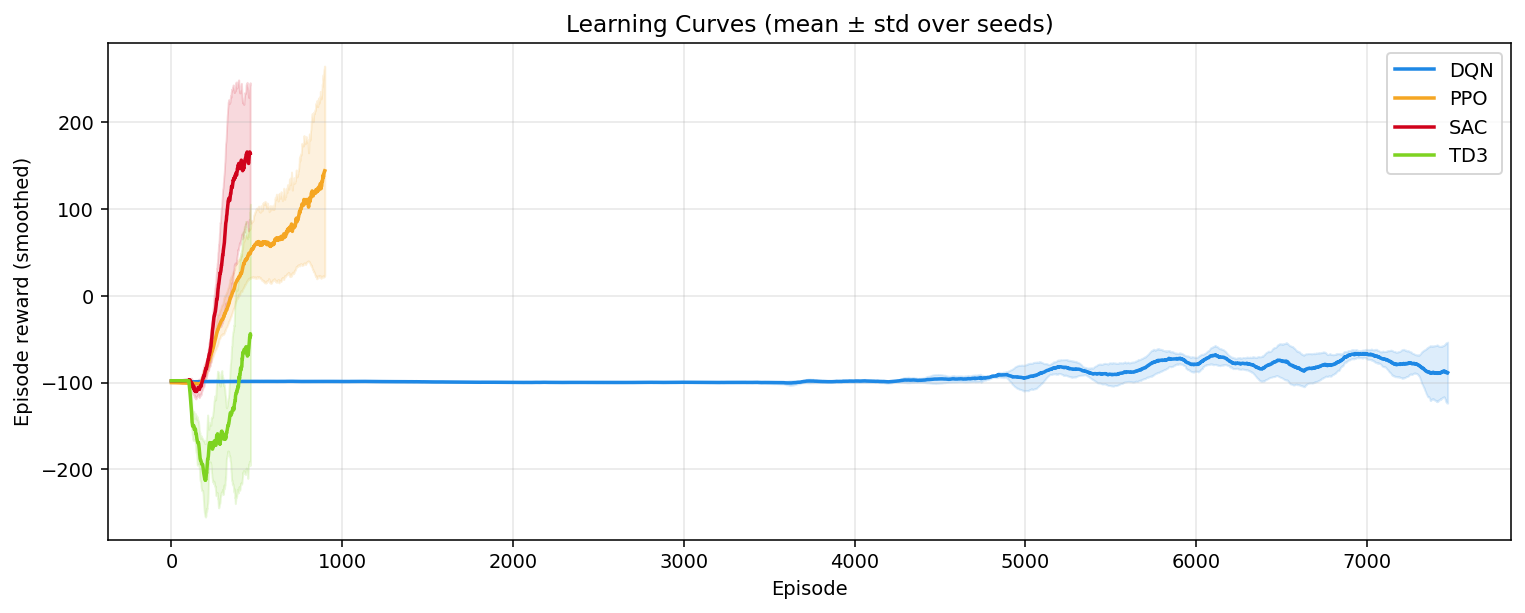
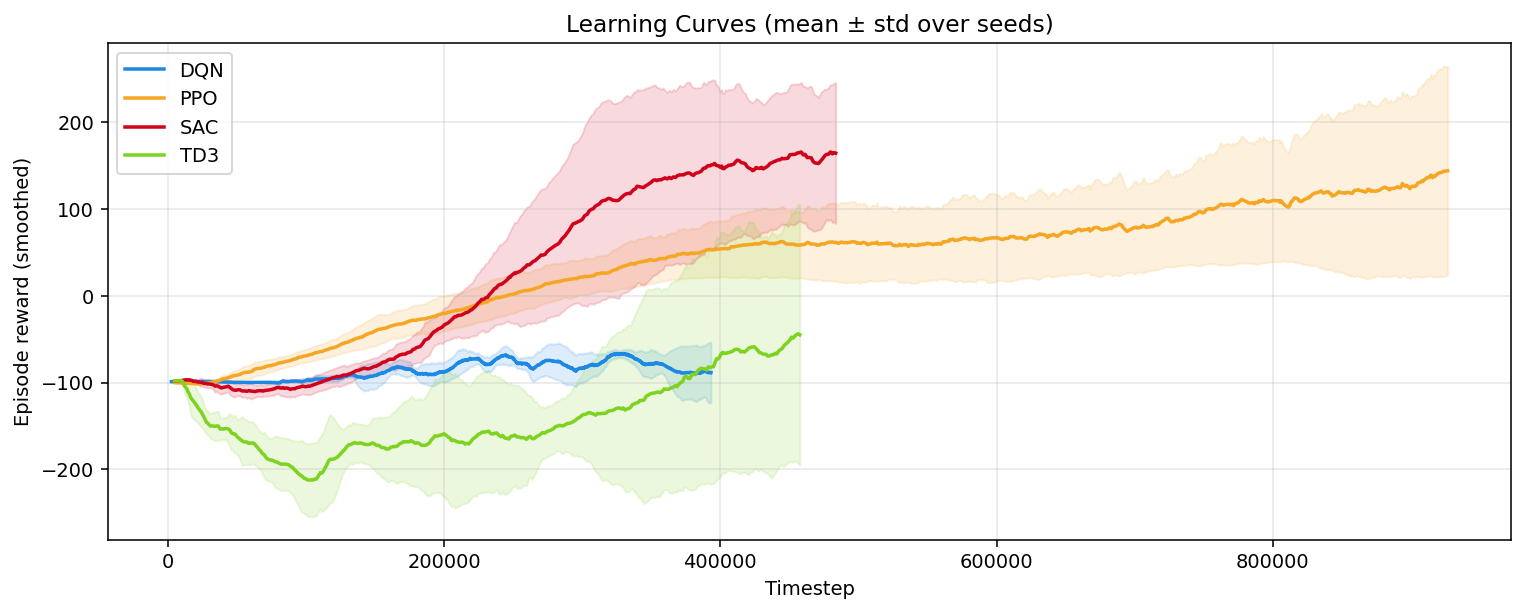
Phase-1 결과 정리 + Phase-2 타임어택 reward 설계
결과/figure:
- learning_curves x축을 episode 인덱스 → timestep으로 수정.
  DQN이 즉시 충돌해 짧은 에피소드를 수천 개 만들어 다른 알고리즘
  곡선이 왼쪽 끝에 뭉개지던 문제 해결(이제 4개 algo 공정 비교).
- README §9를 실제 본학습 결과로 채움(알고리즘 비교 표, 보상셰이핑/
  raycast ablation 해석, 요약).

Phase-2 (제한시간 내 최단 완주라는 진짜 목표 최적화):
- env: finish_time_bonus kwarg 추가(기본 0, 비파괴). 완주 시
  complete_bonus + finish_time_bonus*(1-steps/max_steps)로 빠른 완주
  보상. terminal 신호라 parking 정책엔 영향 없고 완주 정책만 가속.
- train: timeattack_dense/timeattack_finish/timeattack 프리셋 3종,
  --init-from/--learning-rate로 warm-start fine-tune(태그 _ft).
- run_phase2.sh: SAC 3프리셋×3시드 sweep + best racing 모델 fine-tune
  + viz.
- visualize: timeattack_ablation/finetune_compare figure.
- README §6-1(설계)·§9-7(결과 placeholder) 추가.

diff --git a/visualize.py b/visualize.py
@@ -172,14 +172,6 @@ def _seed_csvs(tag):
     paths = sorted(glob.glob(os.path.join(RESULTS, f"{tag}_seed*_metrics.csv")))
     return [np.genfromtxt(p, delimiter=",", names=True) for p in paths]
 
-def _agg_curve(arrays, key, w=100):
-    curves = [_smooth(np.atleast_1d(a[key]).astype(float), w) for a in arrays if a.size]
-    curves = [c for c in curves if len(c)]
-    if not curves:
-        return None
-    n = min(map(len, curves)); M = np.vstack([c[:n] for c in curves])
-    return M.mean(0), M.std(0)
-
 def _final(arrays, key, last=300):
     vals = [np.atleast_1d(a[key]).astype(float)[-last:].mean() for a in arrays if a.size]
     return (np.mean(vals), np.std(vals)) if vals else (np.nan, 0.0)
@@ -197,21 +189,29 @@ def _laptime(arrays, last=300):
 
 
 # ── Comparison figures ───────────────────────────────────────────────────────
-def plot_learning_curves(groups, save):
-    """groups: list of (label, tag, color)."""
+def plot_learning_curves(groups, save, w=100):
+    """groups: list of (label, tag, color). x-axis is environment timestep so
+    algorithms with very different episode counts (DQN crashes early -> thousands
+    of short episodes) stay comparable."""
     fig, ax = plt.subplots(figsize=(11, 4.5)); fig.patch.set_facecolor("white")
     any_data = False
     for label, tag, color in groups:
-        agg = _agg_curve(_seed_csvs(tag), "ep_reward")
-        if agg is None:
+        arrays = [a for a in _seed_csvs(tag) if a.size]
+        ys = [_smooth(np.atleast_1d(a["ep_reward"]).astype(float), w) for a in arrays]
+        xs = [np.atleast_1d(a["timestep"]).astype(float)[w-1:w-1+len(y)]
+              for a, y in zip(arrays, ys)]
+        pairs = [(x, y) for x, y in zip(xs, ys) if len(y)]
+        if not pairs:
             continue
         any_data = True
-        m, s = agg; x = np.arange(len(m))
+        n = min(len(y) for _, y in pairs)
+        x = np.vstack([p[0][:n] for p in pairs]).mean(0)
+        M = np.vstack([p[1][:n] for p in pairs]); m, s = M.mean(0), M.std(0)
         ax.plot(x, m, color=color, lw=1.8, label=label)
         ax.fill_between(x, m-s, m+s, color=color, alpha=0.15)
     if not any_data:
         plt.close(fig); return
-    ax.set_xlabel("Episode"); ax.set_ylabel("Episode reward (smoothed)")
+    ax.set_xlabel("Timestep"); ax.set_ylabel("Episode reward (smoothed)")
     ax.set_title("Learning Curves (mean ± std over seeds)"); ax.legend(); ax.grid(alpha=0.3)
     _save(fig, save)
 
@@ -272,6 +272,10 @@ MAIN = [("DQN", "dqn_racing", "#1E88E5"), ("PPO", "ppo_racing", "#F5A623"),
 REWARD_ABL = [("baseline", "sac", "#9E9E9E"), ("no_shaping", "sac_no_shaping", "#90CAF9"),
               ("aggressive", "sac_aggressive", "#FFB74D"), ("racing", "sac_racing", "#D0021B")]
 RAYCAST_ABL = [("raycast ON", "sac_racing", "#2E7D32"), ("raycast OFF", "sac_racing_noray", "#C62828")]
+# Phase-2 time-attack reward study (vs the `racing` baseline) + warm-start fine-tune.
+TIMEATTACK  = [("racing", "sac_racing", "#9E9E9E"), ("ta_dense", "sac_timeattack_dense", "#90CAF9"),
+               ("ta_finish", "sac_timeattack_finish", "#FFB74D"), ("timeattack", "sac_timeattack", "#D0021B")]
+FINETUNE    = [("racing (base)", "sac_racing", "#9E9E9E"), ("timeattack FT", "sac_timeattack_ft", "#D0021B")]
 
 
 def main():
@@ -297,6 +301,10 @@ def main():
                         "SAC Reward-shaping Ablation")
     plot_bar_comparison(RAYCAST_ABL, os.path.join(VIZ, "raycast_ablation.png"),
                         "SAC Raycast Sensor Ablation")
+    plot_bar_comparison(TIMEATTACK, os.path.join(VIZ, "timeattack_ablation.png"),
+                        "SAC Time-attack Reward Study (true objective)")
+    plot_bar_comparison(FINETUNE, os.path.join(VIZ, "finetune_compare.png"),
+                        "SAC racing -> time-attack fine-tune")
     plot_eval_curve()
     print("\nDone. Figures in results/viz/")
 

diff --git a/train.py b/train.py
@@ -50,6 +50,11 @@ REWARD_PRESETS = {
     "no_shaping": dict(overheat_pen=0.0, slip_pen=0.0, time_pen=0.0),  # only progress/crash/finish
     "aggressive": dict(crash_pen=200.0, speed_reward=0.02),            # less timid, reward speed
     "racing":     dict(crash_pen=100.0, speed_reward=0.05),           # strong anti-stop (escape "brake-and-park")
+    # Phase-2 time-attack study (vs `racing` baseline) — target the true objective:
+    # finish the 3 laps within the time limit, as fast as possible.
+    "timeattack_dense":  dict(crash_pen=100.0, speed_reward=0.10, time_pen=0.06),  # stronger dense pace pressure
+    "timeattack_finish": dict(crash_pen=100.0, speed_reward=0.05, finish_time_bonus=300.0),  # terminal fast-finish bonus
+    "timeattack":        dict(crash_pen=100.0, speed_reward=0.10, time_pen=0.06, finish_time_bonus=300.0),  # both
 }
 
 
@@ -139,6 +144,7 @@ def train_one(algo, args, device):
 
     tag = algo + ("" if preset == "baseline" else f"_{preset}")
     tag += ("_noray" if args.no_raycast else "") + ("_wx" if args.random_weather else "")
+    tag += ("_ft" if args.init_from else "")          # warm-started fine-tune run
     tag += f"_seed{args.seed}"
 
     steps = args.timesteps or (3_000 if args.smoke else DEFAULT_STEPS[algo])
@@ -164,7 +170,15 @@ def train_one(algo, args, device):
         EpisodeMetrics(os.path.join(RESULTS, f"{tag}_metrics.csv")),
     ]
 
-    model = build_model(algo, venv, device, args.seed, os.path.join(RESULTS, "tb"))
+    tb = os.path.join(RESULTS, "tb")
+    if args.init_from:                                # warm-start fine-tuning
+        co = {"learning_rate": args.learning_rate,
+              "lr_schedule": lambda _: args.learning_rate} if args.learning_rate else {}
+        print(f"fine-tuning from {args.init_from}" + (f"  lr={args.learning_rate}" if co else ""))
+        model = spec["cls"].load(args.init_from, env=venv, device=device,
+                                 tensorboard_log=tb, custom_objects=co)
+    else:
+        model = build_model(algo, venv, device, args.seed, tb)
     model.learn(total_timesteps=steps, progress_bar=not args.smoke,
                 tb_log_name=tag, callback=callbacks)
 
@@ -185,6 +199,10 @@ def main():
     p.add_argument("--save-freq", type=int, default=100_000)
     p.add_argument("--reward-preset", choices=list(REWARD_PRESETS), default="baseline",
                    help="reward-shaping variant for ablation (see REWARD_PRESETS)")
+    p.add_argument("--init-from", default="",
+                   help="warm-start from a model .zip (fine-tuning); run is tagged _ft")
+    p.add_argument("--learning-rate", type=float, default=0.0,
+                   help="override LR (use with --init-from for low-LR fine-tune)")
     p.add_argument("--no-raycast", action="store_true", help="mask raycast obs (sensor ablation)")
     p.add_argument("--random-weather", action="store_true",
                    help="random wet start each episode (activate tire/pit strategy)")

diff --git a/env.py b/env.py
@@ -84,7 +84,8 @@ class F1DriverEnv(gym.Env):
                  progress_scale=PROGRESS_SCALE, time_pen=TIME_PEN,
                  overheat_pen=OVERHEAT_PEN, slip_pen=SLIP_PEN, pit_pen=PIT_PEN,
                  crash_pen=CRASH_PEN, complete_bonus=COMPLETE_BONUS,
-                 speed_reward=0.0, use_raycast=True, random_weather=False):
+                 speed_reward=0.0, finish_time_bonus=0.0,
+                 use_raycast=True, random_weather=False):
         super().__init__()
         # reward weights (kwargs default to the module constants -> baseline
         # behaviour unchanged; override per-instance for ablation studies)
@@ -92,6 +93,7 @@ class F1DriverEnv(gym.Env):
         self.overheat_pen = overheat_pen;     self.slip_pen = slip_pen
         self.pit_pen = pit_pen;               self.crash_pen = crash_pen
         self.complete_bonus = complete_bonus; self.speed_reward = speed_reward
+        self.finish_time_bonus = finish_time_bonus  # extra terminal reward scaled by how early the race finished
         self.use_raycast = use_raycast            # False -> mask ray obs (ablation)
         self.random_weather = random_weather      # True  -> random wet start (activate pit strategy)
         cl, left, right, half_w, length_m = _load_track()
@@ -306,6 +308,8 @@ class F1DriverEnv(gym.Env):
             terminated = True
         elif self.laps >= self.n_laps:
             reward += self.complete_bonus
+            # reward finishing fast: full bonus for an instant lap, ->0 at the time limit
+            reward += self.finish_time_bonus * max(1.0 - self.steps / self.max_steps, 0.0)
             terminated = True
 
         truncated = self.steps >= self.max_steps
